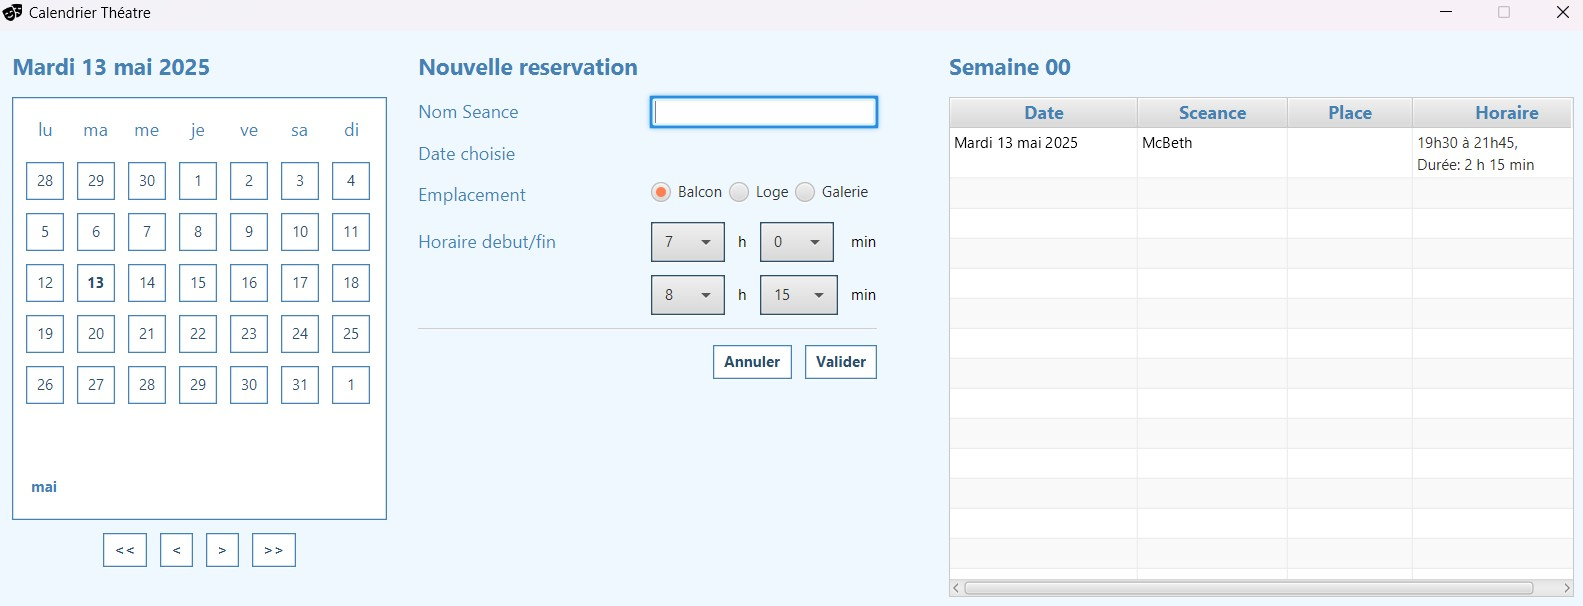
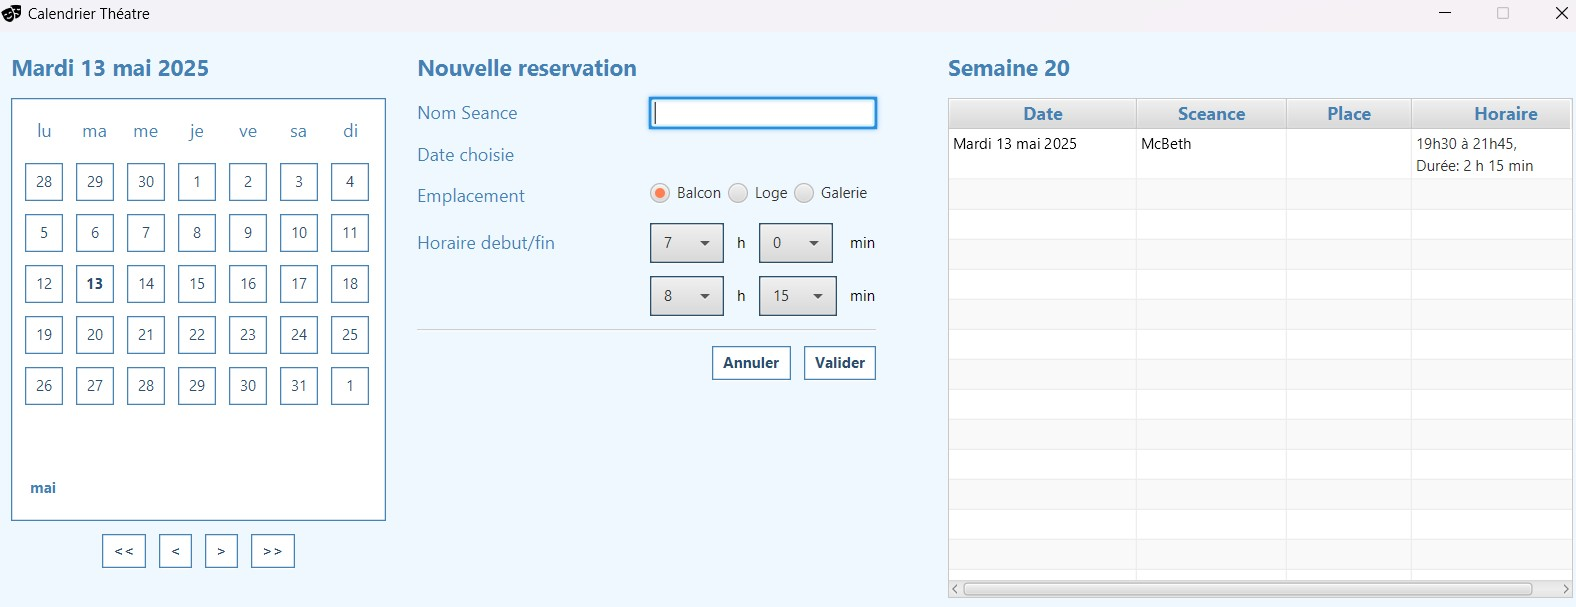
correction numSemaine

diff --git a/src/main/java/vue/VBoxAffichagePlanning.java b/src/main/java/vue/VBoxAffichagePlanning.java
@@ -13,7 +13,7 @@ import modele.*;
 
 public class VBoxAffichagePlanning extends VBox {
 
-    public Label numSemaine = new Label("Semaine 00");
+    public Label numSemaine = new Label("Semaine " + new DateCalendrier().getWeekOfYear());
     public TableView<Reservation> tableDesReservations = new TableView<>();
 
     public VBoxAffichagePlanning() throws ExceptionPlanning {
